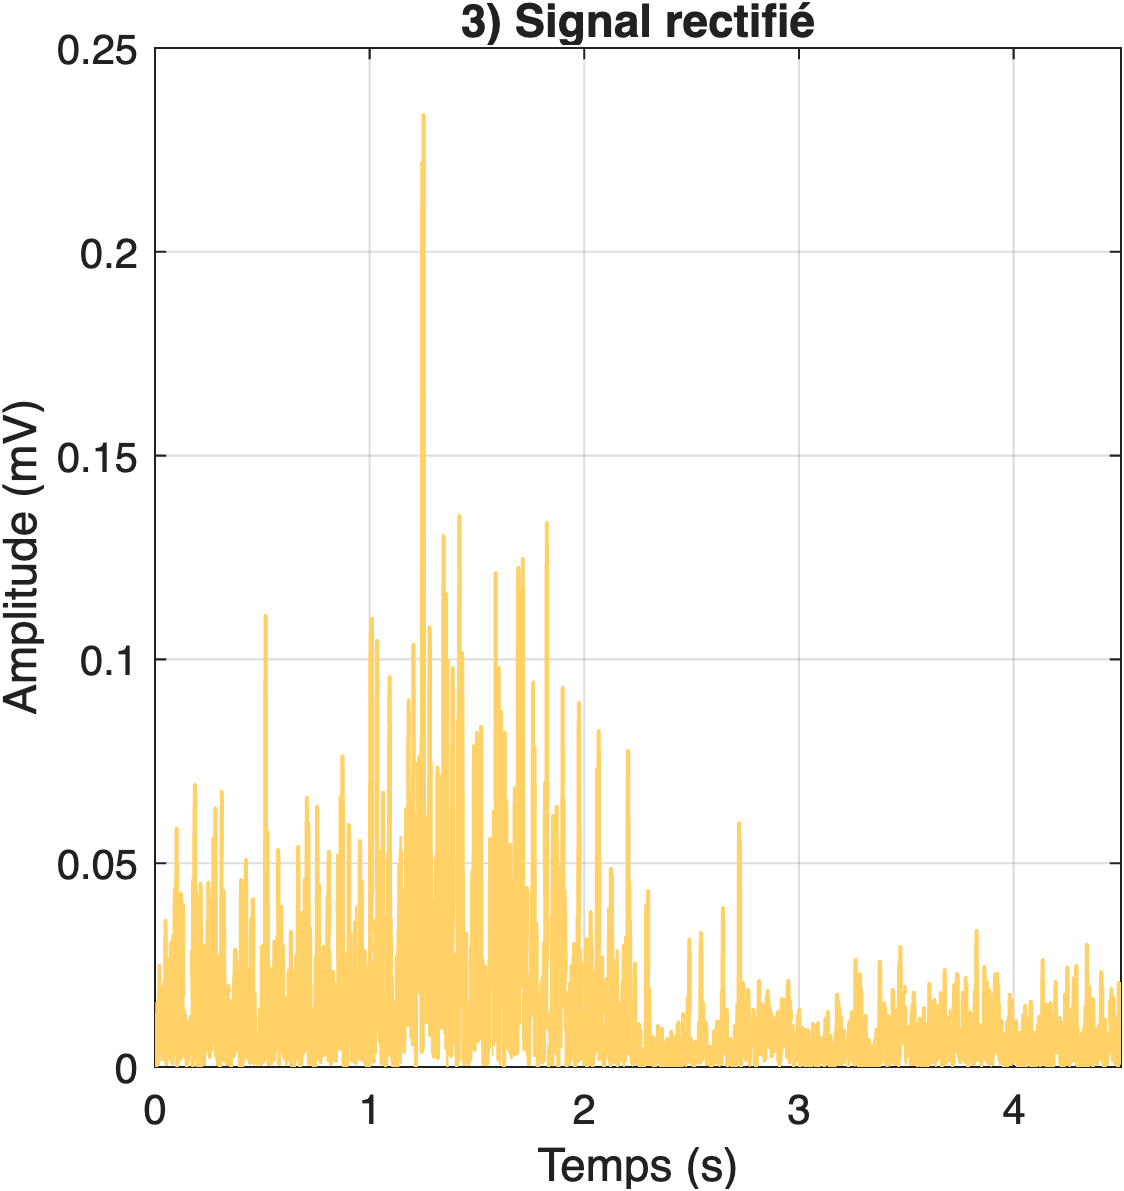
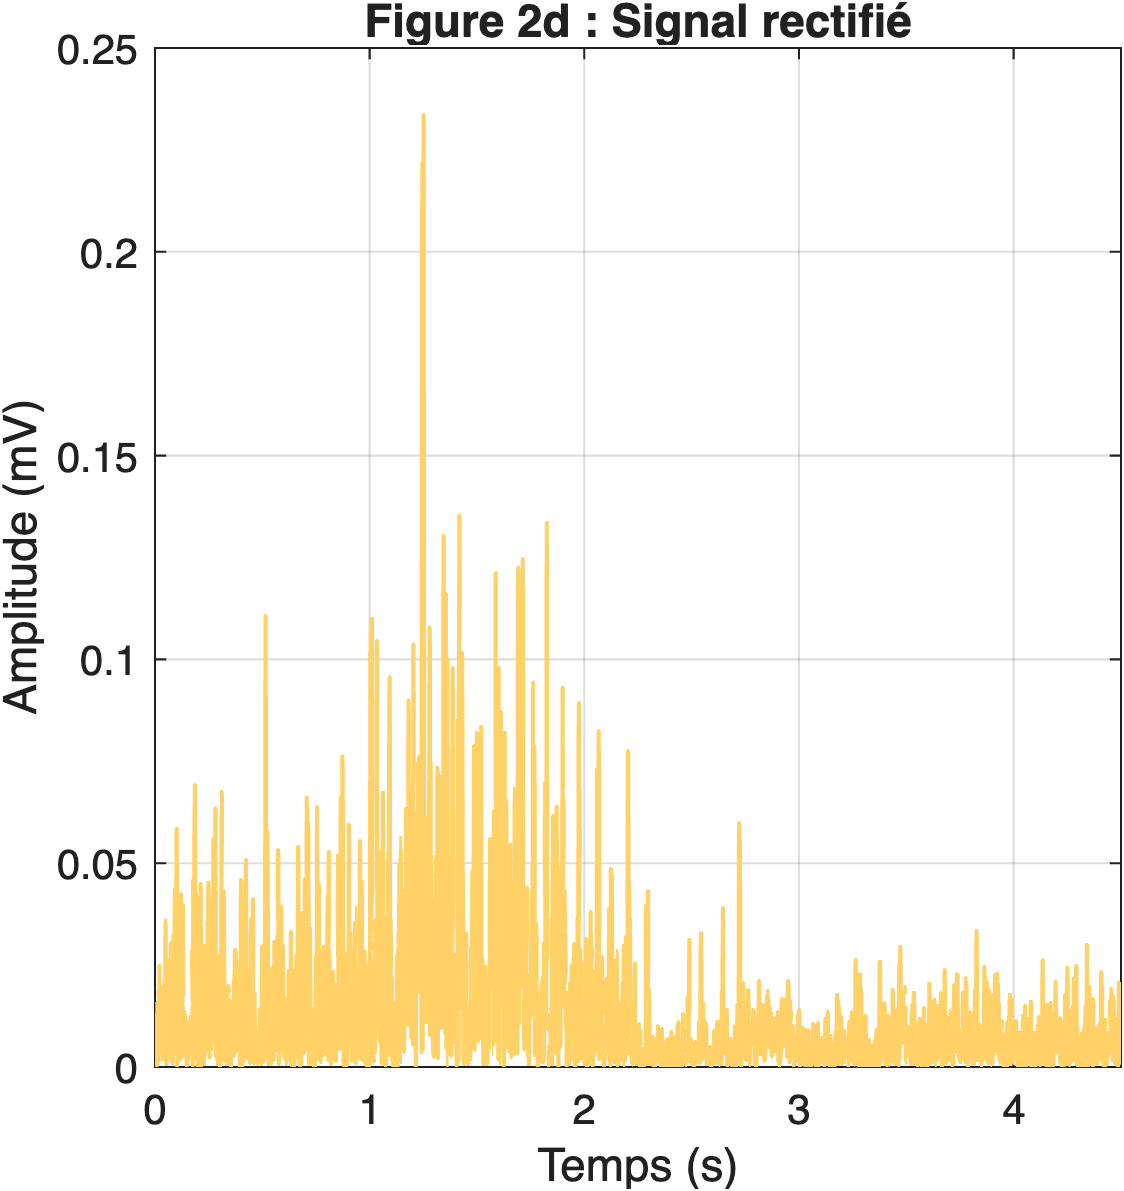
Update titles

Changed region(s): [[0.3114, 0.0, 0.8096, 0.0621]]

diff --git a/src/EMG_utils/process_EMG.m b/src/EMG_utils/process_EMG.m
@@ -62,13 +62,13 @@ end
 
 % Display and/or save graphs
 signals = {EMG, EMG_bp, EMG_lp, EMG_rect, EMG_smooth, EMG_norm, EMG_proc};
-titles  = {"0) Signal brut", ...
-           "1) Signal filtré (passe-bas)", ...
-           "2) Signal filtré (Notch)", ...
-           "3) Signal rectifié", ...
-           "4) Signal lissé", ...
-           "5) Signal normalisé par l'IMC", ...
-           "6) Signal d'activation"};
+titles  = {"Figure 2a : Signal brut", ...
+           "Figure 2b : Signal filtré (passe-bas)", ...
+           "Figure 2c : Signal filtré (Notch)", ...
+           "Figure 2d : Signal rectifié", ...
+           "Figure 2e : Signal lissé", ...
+           "Figure 2f : Signal normalisé", ...
+           "Figure 2g : Signal d'activation"};
 
 ylabels = {"Amplitude (mV)", ...
            "Amplitude (mV)", ...
